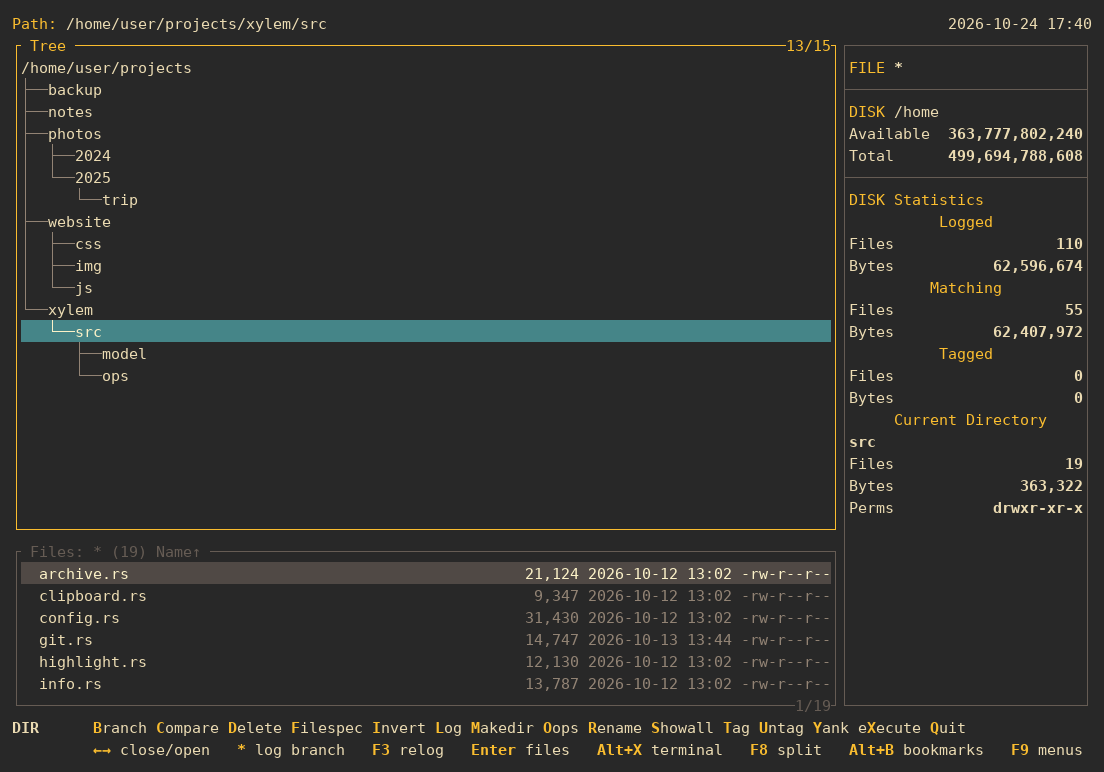
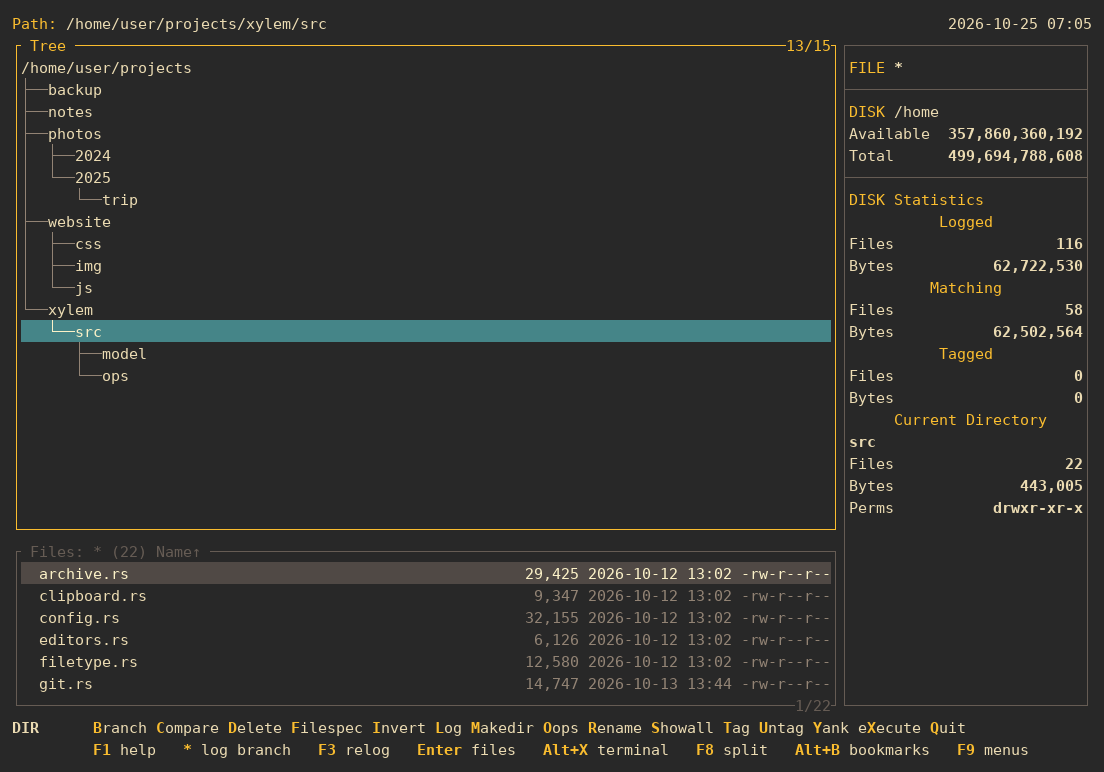
Website: screenshots in modern themes and a theme switcher
The screenshot tools now make a configuration per theme and a screenshot
of the tree in each one, plus the website's screens in nord, dark and
gruvbox (the animation too). The website opens with the nord animation,
shows the gallery in those themes, and has a Themes section that switches
between all of them, so the classic blue is a choice, not the first
impression.

diff --git a/site/pt-br/index.html b/site/pt-br/index.html
@@ -51,7 +51,7 @@
 
         <div class="window demo">
           <div class="bar"><i></i><i></i><i></i><span>xy ~/projetos</span></div>
-          <img src="../assets/demo.gif" width="1104" height="772"
+          <img src="../assets/screenshots/demo-nord.gif" width="1104" height="772"
                alt="O Xylem em uso: o terminal embutido com a árvore acompanhando um cd, arquivos marcados num Branch e digitados num comando com Alt+O">
         </div>
       </div>
@@ -101,6 +101,26 @@
       </div>
     </section>
 
+    <section id="temas">
+      <div class="wrap">
+        <p class="eyebrow">Temas</p>
+        <h2>Não curte o azul clássico?</h2>
+        <p class="section-lead">Escolha um tema com <kbd>F4</kbd>, ou defina <code>theme</code> no
+          arquivo de configuração. Cada cor também pode ser trocada uma a uma.</p>
+        <div class="themes">
+          <a href="../assets/screenshots/theme-nord.png" aria-current="true">nord</a>
+          <a href="../assets/screenshots/theme-dark.png">dark</a>
+          <a href="../assets/screenshots/theme-light.png">light</a>
+          <a href="../assets/screenshots/theme-gruvbox.png">gruvbox</a>
+          <a href="../assets/screenshots/theme-solarized.png">solarized</a>
+          <a href="../assets/screenshots/theme-mono.png">mono</a>
+          <a href="../assets/screenshots/theme-norton.png">norton</a>
+          <a href="../assets/screenshots/tree.png">classic</a>
+        </div>
+        <div class="window theme-view"><img src="../assets/screenshots/theme-nord.png" width="1104" height="772" loading="lazy" alt="A mesma tela no tema nord" data-alt="A mesma tela no tema {}"></div>
+      </div>
+    </section>
+
     <section id="telas">
       <div class="wrap">
         <p class="eyebrow">Telas</p>
@@ -108,32 +128,28 @@
         <p class="section-lead">Clique numa tela para vê-la maior.</p>
         <div class="shots">
           <figure class="shot">
-            <a href="../assets/screenshots/tree.png"><div class="window"><img src="../assets/screenshots/tree.png" width="1104" height="772" loading="lazy" alt="Árvore de diretórios, janela de arquivos e estatísticas, no tema clássico"></div></a>
-            <figcaption><strong>A árvore</strong> — diretórios, a janela de arquivos e as estatísticas, no tema clássico.</figcaption>
+            <a href="../assets/screenshots/tree-nord.png"><div class="window"><img src="../assets/screenshots/tree-nord.png" width="1104" height="772" loading="lazy" alt="Árvore de diretórios, janela de arquivos e estatísticas, no tema nord"></div></a>
+            <figcaption><strong>A árvore</strong> — diretórios, a janela de arquivos e as estatísticas, no tema nord.</figcaption>
           </figure>
           <figure class="shot">
-            <a href="../assets/screenshots/branch-tagged.png"><div class="window"><img src="../assets/screenshots/branch-tagged.png" width="1104" height="772" loading="lazy" alt="Branch com três arquivos marcados"></div></a>
+            <a href="../assets/screenshots/branch-tagged-dark.png"><div class="window"><img src="../assets/screenshots/branch-tagged-dark.png" width="1104" height="772" loading="lazy" alt="Branch com três arquivos marcados"></div></a>
             <figcaption><strong>Branch</strong> (<kbd>B</kbd>) lista os arquivos de um ramo inteiro; os marcados (<kbd>T</kbd>) ficam destacados e contados.</figcaption>
           </figure>
           <figure class="shot">
-            <a href="../assets/screenshots/split.png"><div class="window"><img src="../assets/screenshots/split.png" width="1104" height="772" loading="lazy" alt="Janela dividida: fotos à esquerda, código-fonte à direita"></div></a>
+            <a href="../assets/screenshots/split-gruvbox.png"><div class="window"><img src="../assets/screenshots/split-gruvbox.png" width="1104" height="772" loading="lazy" alt="Janela dividida: fotos à esquerda, código-fonte à direita"></div></a>
             <figcaption><strong>Janela dividida</strong> (<kbd>F8</kbd>), cada lado com seu diretório.</figcaption>
           </figure>
           <figure class="shot">
-            <a href="../assets/screenshots/viewer.png"><div class="window"><img src="../assets/screenshots/viewer.png" width="1104" height="772" loading="lazy" alt="Visualizador mostrando código Rust com cores de sintaxe"></div></a>
+            <a href="../assets/screenshots/viewer-nord.png"><div class="window"><img src="../assets/screenshots/viewer-nord.png" width="1104" height="772" loading="lazy" alt="Visualizador mostrando código Rust com cores de sintaxe"></div></a>
             <figcaption><strong>Visualizador</strong> (<kbd>V</kbd>), com cores de sintaxe.</figcaption>
           </figure>
           <figure class="shot">
-            <a href="../assets/screenshots/terminal-tagged.png"><div class="window"><img src="../assets/screenshots/terminal-tagged.png" width="1104" height="772" loading="lazy" alt="Três fotos marcadas digitadas num wc -c com Alt+O"></div></a>
+            <a href="../assets/screenshots/terminal-tagged-nord.png"><div class="window"><img src="../assets/screenshots/terminal-tagged-nord.png" width="1104" height="772" loading="lazy" alt="Três fotos marcadas digitadas num wc -c com Alt+O"></div></a>
             <figcaption><strong>Terminal embutido</strong> (<kbd>Alt</kbd>+<kbd>X</kbd>): os arquivos marcados digitados no prompt com <kbd>Alt</kbd>+<kbd>O</kbd>.</figcaption>
           </figure>
           <figure class="shot">
-            <a href="../assets/screenshots/git-menu.png"><div class="window"><img src="../assets/screenshots/git-menu.png" width="1104" height="772" loading="lazy" alt="Lista de arquivos com as letras de status do Git e o menu Git no rodapé"></div></a>
+            <a href="../assets/screenshots/git-menu-dark.png"><div class="window"><img src="../assets/screenshots/git-menu-dark.png" width="1104" height="772" loading="lazy" alt="Lista de arquivos com as letras de status do Git e o menu Git no rodapé"></div></a>
             <figcaption><strong>Git</strong> (opcional): letras de status na lista de arquivos e o menu Git (<kbd>Ctrl</kbd>+<kbd>G</kbd>).</figcaption>
-          </figure>
-          <figure class="shot">
-            <a href="../assets/screenshots/theme-gruvbox.png"><div class="window"><img src="../assets/screenshots/theme-gruvbox.png" width="1104" height="772" loading="lazy" alt="O tema gruvbox"></div></a>
-            <figcaption><strong>Temas</strong>: classic, dark, light, mono, norton, solarized, gruvbox (aqui) e nord.</figcaption>
           </figure>
         </div>
       </div>

diff --git a/site/index.html b/site/index.html
@@ -50,7 +50,7 @@
 
         <div class="window demo">
           <div class="bar"><i></i><i></i><i></i><span>xy ~/projects</span></div>
-          <img src="assets/demo.gif" width="1104" height="772"
+          <img src="assets/screenshots/demo-nord.gif" width="1104" height="772"
                alt="Xylem in use: the built-in terminal with the tree following a cd, tagging files in a Branch and typing them into a command with Alt+O">
         </div>
       </div>
@@ -99,6 +99,26 @@
       </div>
     </section>
 
+    <section id="themes">
+      <div class="wrap">
+        <p class="eyebrow">Themes</p>
+        <h2>Not a fan of the classic blue?</h2>
+        <p class="section-lead">Pick a theme with <kbd>F4</kbd>, or set <code>theme</code> in the
+          configuration file. Every color can also be changed one by one.</p>
+        <div class="themes">
+          <a href="assets/screenshots/theme-nord.png" aria-current="true">nord</a>
+          <a href="assets/screenshots/theme-dark.png">dark</a>
+          <a href="assets/screenshots/theme-light.png">light</a>
+          <a href="assets/screenshots/theme-gruvbox.png">gruvbox</a>
+          <a href="assets/screenshots/theme-solarized.png">solarized</a>
+          <a href="assets/screenshots/theme-mono.png">mono</a>
+          <a href="assets/screenshots/theme-norton.png">norton</a>
+          <a href="assets/screenshots/tree.png">classic</a>
+        </div>
+        <div class="window theme-view"><img src="assets/screenshots/theme-nord.png" width="1104" height="772" loading="lazy" alt="The same screen in the nord theme" data-alt="The same screen in the {} theme"></div>
+      </div>
+    </section>
+
     <section id="screenshots">
       <div class="wrap">
         <p class="eyebrow">Screenshots</p>
@@ -106,32 +126,28 @@
         <p class="section-lead">Click a screenshot to see it larger.</p>
         <div class="shots">
           <figure class="shot">
-            <a href="assets/screenshots/tree.png"><div class="window"><img src="assets/screenshots/tree.png" width="1104" height="772" loading="lazy" alt="Directory tree, file window and statistics, in the classic theme"></div></a>
-            <figcaption><strong>The tree</strong> — directories, the file window and the statistics, in the classic theme.</figcaption>
+            <a href="assets/screenshots/tree-nord.png"><div class="window"><img src="assets/screenshots/tree-nord.png" width="1104" height="772" loading="lazy" alt="Directory tree, file window and statistics, in the nord theme"></div></a>
+            <figcaption><strong>The tree</strong> — directories, the file window and the statistics, in the nord theme.</figcaption>
           </figure>
           <figure class="shot">
-            <a href="assets/screenshots/branch-tagged.png"><div class="window"><img src="assets/screenshots/branch-tagged.png" width="1104" height="772" loading="lazy" alt="Branch view with three tagged files"></div></a>
+            <a href="assets/screenshots/branch-tagged-dark.png"><div class="window"><img src="assets/screenshots/branch-tagged-dark.png" width="1104" height="772" loading="lazy" alt="Branch view with three tagged files"></div></a>
             <figcaption><strong>Branch</strong> (<kbd>B</kbd>) lists the files of a whole branch; tagged files (<kbd>T</kbd>) are highlighted and counted.</figcaption>
           </figure>
           <figure class="shot">
-            <a href="assets/screenshots/split.png"><div class="window"><img src="assets/screenshots/split.png" width="1104" height="772" loading="lazy" alt="Split window: photos on the left, source code on the right"></div></a>
+            <a href="assets/screenshots/split-gruvbox.png"><div class="window"><img src="assets/screenshots/split-gruvbox.png" width="1104" height="772" loading="lazy" alt="Split window: photos on the left, source code on the right"></div></a>
             <figcaption><strong>Split window</strong> (<kbd>F8</kbd>), each side with its own directory.</figcaption>
           </figure>
           <figure class="shot">
-            <a href="assets/screenshots/viewer.png"><div class="window"><img src="assets/screenshots/viewer.png" width="1104" height="772" loading="lazy" alt="Viewer showing Rust code with syntax colors"></div></a>
+            <a href="assets/screenshots/viewer-nord.png"><div class="window"><img src="assets/screenshots/viewer-nord.png" width="1104" height="772" loading="lazy" alt="Viewer showing Rust code with syntax colors"></div></a>
             <figcaption><strong>Viewer</strong> (<kbd>V</kbd>), with syntax colors.</figcaption>
           </figure>
           <figure class="shot">
-            <a href="assets/screenshots/terminal-tagged.png"><div class="window"><img src="assets/screenshots/terminal-tagged.png" width="1104" height="772" loading="lazy" alt="Three tagged photos typed into wc -c with Alt+O"></div></a>
+            <a href="assets/screenshots/terminal-tagged-nord.png"><div class="window"><img src="assets/screenshots/terminal-tagged-nord.png" width="1104" height="772" loading="lazy" alt="Three tagged photos typed into wc -c with Alt+O"></div></a>
             <figcaption><strong>Built-in terminal</strong> (<kbd>Alt</kbd>+<kbd>X</kbd>): tagged files typed at the prompt with <kbd>Alt</kbd>+<kbd>O</kbd>.</figcaption>
           </figure>
           <figure class="shot">
-            <a href="assets/screenshots/git-menu.png"><div class="window"><img src="assets/screenshots/git-menu.png" width="1104" height="772" loading="lazy" alt="File list with Git status letters and the Git menu in the footer"></div></a>
+            <a href="assets/screenshots/git-menu-dark.png"><div class="window"><img src="assets/screenshots/git-menu-dark.png" width="1104" height="772" loading="lazy" alt="File list with Git status letters and the Git menu in the footer"></div></a>
             <figcaption><strong>Git</strong> (optional): status letters in the file list and the Git menu (<kbd>Ctrl</kbd>+<kbd>G</kbd>).</figcaption>
-          </figure>
-          <figure class="shot">
-            <a href="assets/screenshots/theme-gruvbox.png"><div class="window"><img src="assets/screenshots/theme-gruvbox.png" width="1104" height="772" loading="lazy" alt="The gruvbox theme"></div></a>
-            <figcaption><strong>Themes</strong>: classic, dark, light, mono, norton, solarized, gruvbox (here) and nord.</figcaption>
           </figure>
         </div>
       </div>

diff --git a/site/site.js b/site/site.js
@@ -1,6 +1,6 @@
-// Copy buttons on the commands, and the screenshots opened large in place.
-// Without JavaScript the commands are still selectable and the screenshots
-// are plain links to the images.
+// Copy buttons on the commands, the theme switcher, and the screenshots
+// opened large in place. Without JavaScript the commands are still
+// selectable, and the themes and screenshots are plain links to the images.
 
 for (const block of document.querySelectorAll(".code")) {
   const button = document.createElement("button");
@@ -32,4 +32,15 @@ if (lightbox) {
     });
   }
   lightbox.addEventListener("click", () => lightbox.close());
+}
+
+const view = document.querySelector(".theme-view img");
+for (const link of document.querySelectorAll(".themes a")) {
+  link.addEventListener("click", (event) => {
+    event.preventDefault();
+    document.querySelector(".themes [aria-current]")?.removeAttribute("aria-current");
+    link.setAttribute("aria-current", "true");
+    view.src = link.href;
+    view.alt = view.dataset.alt.replace("{}", link.textContent);
+  });
 }

diff --git a/site/style.css b/site/style.css
@@ -166,7 +166,7 @@ kbd {
 .window {
   border-radius: var(--radius);
   overflow: hidden;
-  background: #0000aa;
+  background: #0c0c0c;
   border: 1px solid var(--border);
   box-shadow: var(--shadow);
 }
@@ -263,6 +263,24 @@ dialog.lightbox {
 dialog.lightbox::backdrop { background: rgb(0 0 0 / 0.8); }
 
 dialog.lightbox img { border-radius: var(--radius); cursor: zoom-out; }
+
+.themes { display: flex; flex-wrap: wrap; gap: 8px; margin-bottom: 20px; }
+
+.themes a {
+  padding: 6px 14px;
+  border: 1px solid var(--border);
+  border-radius: 999px;
+  background: var(--surface);
+  color: var(--text);
+  font: 0.88rem var(--mono);
+  text-decoration: none;
+}
+
+.themes a:hover { border-color: var(--link); }
+
+.themes a[aria-current] { background: var(--accent); border-color: var(--accent); color: var(--accent-text); }
+
+.theme-view { max-width: 980px; }
 
 /* Why */
 
